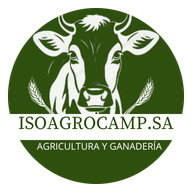
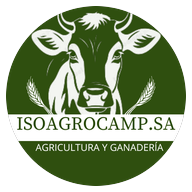
Iconos trasparentes

diff --git a/dev-dist/sw.js b/dev-dist/sw.js
@@ -81,7 +81,7 @@ define(['./workbox-edf91e0a'], (function (workbox) { 'use strict';
     "revision": "3ca0b8505b4bec776b69afdba2768812"
   }, {
     "url": "/index.html",
-    "revision": "0.jqs6v2hqve"
+    "revision": "0.7a0a8c6e65k"
   }], {});
   workbox.cleanupOutdatedCaches();
   workbox.registerRoute(new workbox.NavigationRoute(workbox.createHandlerBoundToURL("/index.html"), {
